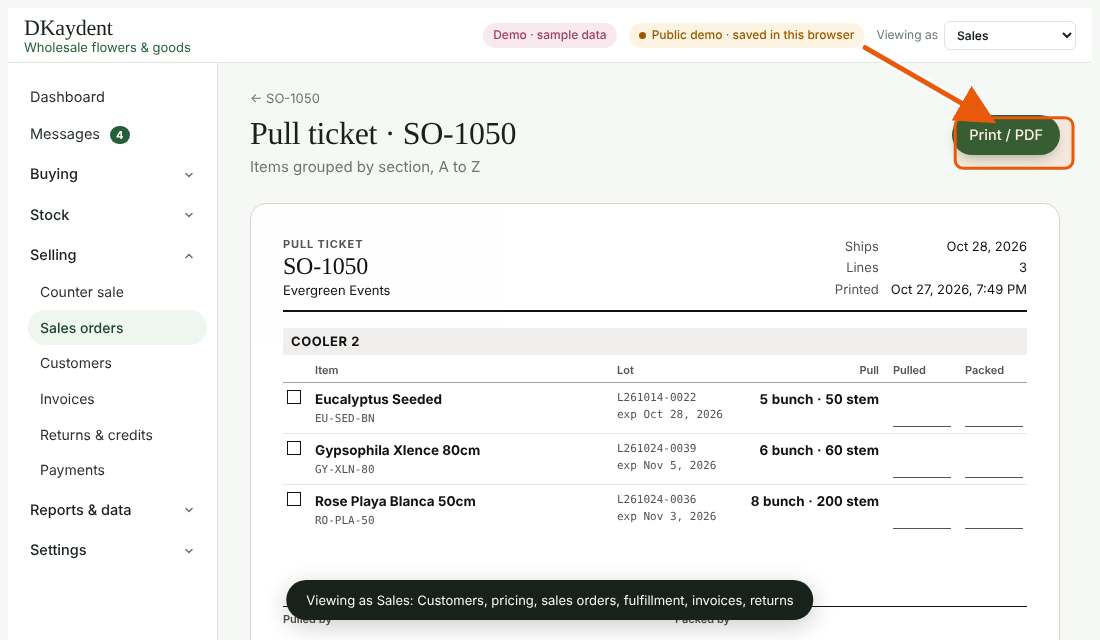
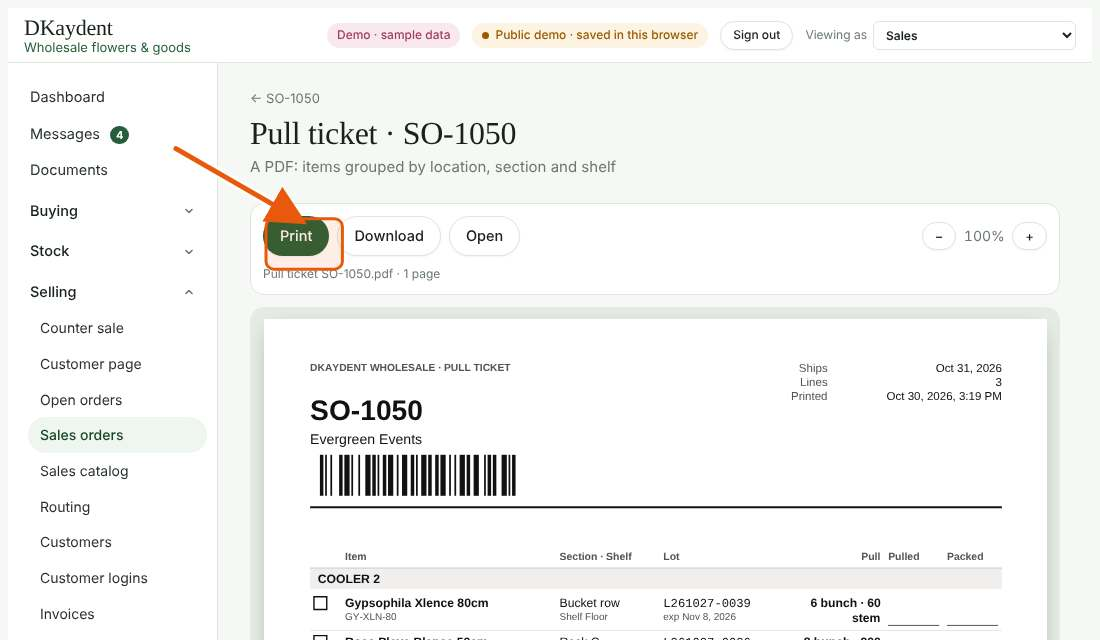
Help: tutorials and knowledge base for the PDF editor, Word editor, signature requests, direct ship and partial receiving
- New tutorials: PDF editor, Word editor, send a PDF for signature, sign a document
- New articles: PDF editor (full reference), Word editor, signature requests, signing, direct ship
- Updated: PDF printouts, customer page, customer logins; Documents category
- Fresh step pictures for pull ticket, receiving, direct ship, counter and labels

Claude-Session: https://claude.ai/code/session_01JojWCRFjxkoW5egjR1n9fu

diff --git a/lib/help.ts b/lib/help.ts
@@ -90,6 +90,23 @@ export const TUTORIALS: Tutorial[] = [
     ],
   },
   {
+    id: "pdf-editor",
+    title: "Change how a printout looks (PDF editor)",
+    summary: "Lay out the pull ticket, invoice, route sheet or labels and save it for everyone.",
+    who: "Admin",
+    steps: [
+      { text: "Open Settings → Customize printouts and scroll to PDF layouts.", href: "/settings/printouts", linkLabel: "Customize printouts" },
+      { text: "Pick the printout at the top: Pull ticket, Invoice, Route sheet, Box label or Item label. The page below shows it with sample data." },
+      { text: "Tap anything on the page to select it. Drag it to move it, and drag its blue corner to resize it. Arrow keys nudge it; hold Shift for bigger steps." },
+      { text: "Change it in the panel on the right: words, text size, colour, bold, italic, typewriter, capitals and alignment. Insert a field puts in a detail like {so.number} that is filled in on every printout." },
+      { text: "Add more with the toolbar: + Field, + Text, + Line, + Box, + Signature, + Logo / picture or + Barcode." },
+      { text: "Tap the list of lines to choose its columns: tick which show, rename the headings, set each width share and order them with the arrows." },
+      { text: "Tap Preview PDF to see the printout as a real PDF with sample data. Undo takes back a change." },
+      { text: "Tap Save layout. Every pull ticket, invoice or label made after that uses it. Back to the original layout starts that printout over." },
+    ],
+    tip: "Use Show only when it has a value for things that are often empty, like the order note or the MUST CHECK box.",
+  },
+  {
     id: "floor-plan",
     title: "Draw your shop in Location in shop",
     summary: "Shape sections to match the real floor, set the size in feet, and mark doors.",
@@ -180,6 +197,52 @@ export const TUTORIALS: Tutorial[] = [
     ],
   },
   {
+    id: "word-editor",
+    title: "Write a document in the Word editor",
+    summary: "Write, format and save documents, and bring Word files in and out.",
+    who: "Everyone on staff",
+    steps: [
+      { text: "Open Documents. The Word editor tab opens first.", href: "/documents", linkLabel: "Documents" },
+      { text: "Tap + New document, or Import .docx to bring in a Word file." },
+      { text: "Click the title at the top to rename the document, then type in the page." },
+      { text: "Format with the toolbar: Normal or Heading 1–3, font, size, bold, italic, underline, colour, link, alignment, bulleted and numbered lists, indent, horizontal line and Clear." },
+      { text: "It saves as you type. The note beside the title says Saved, Unsaved changes or Saving…. Ctrl+S (⌘+S on a Mac) saves straight away." },
+      { text: "Writing diary shows how many words you wrote each day, with each day's text highlighted in its own colour. Start new day starts a fresh count." },
+      { text: "Export .docx downloads the document as a Word file." },
+      { text: "Your documents are listed on the left with their word count. ✕ deletes one. Only you can see your documents." },
+    ],
+  },
+  {
+    id: "request-signature",
+    title: "Send a PDF for signature",
+    summary: "Upload a PDF, mark where to sign and type, and send it to someone by email.",
+    who: "Everyone on staff",
+    steps: [
+      { text: "Open Documents → Send for signing.", href: "/documents?tab=sign", linkLabel: "Send for signing" },
+      { text: "Tap + Add PDF and choose the file (up to 10 MB). It opens in the field editor, with boxes already suggested next to words like Signature, Date and Name." },
+      { text: "Tap + Signature, + Initials, + Checkbox or + Text, then tap the page where the box goes. Drag a box to move it and drag its corner to resize it." },
+      { text: "Tap a box to change its type, give it a label (what goes there), fill it white or show it as a line. Delete box removes it." },
+      { text: "Tap Save, then ✕ to close. The document shows how many fields it has." },
+      { text: "Tap Send to…, type the signer's email and tap Send. It is emailed from your account, or you get a link to copy if email isn't set up." },
+      { text: "Open the Sent tab to follow it: Waiting, then Signed with the time. Download gets the signed PDF; Withdraw stops an unsigned link working." },
+    ],
+    tip: "Send a teammate's DKaydent email and they sign while signed in, from their To sign tab.",
+  },
+  {
+    id: "sign-document",
+    title: "Sign a document you were sent",
+    summary: "Open the link, sign, fill in the boxes and submit.",
+    who: "Anyone who was sent a document",
+    steps: [
+      { text: "Teammates: open Documents → To sign and tap Open and sign. Anyone else: open the link in the email.", href: "/documents?tab=mine", linkLabel: "To sign" },
+      { text: "Not a DKaydent login? Type your full name and the email the link was sent to, then tap Open document." },
+      { text: "At the top, type your full name for your signature, or tap Draw signature. Initials fill in from your name; change them or tap Draw initials." },
+      { text: "Tap each Sign here and Initials box to put your signature in it. Type in the text boxes and tap checkboxes to tick them. Use − and + to zoom." },
+      { text: "Tap Submit. You can't submit until every signature box is filled." },
+      { text: "Tap Download signed PDF to keep a copy. The sender is emailed that it is signed." },
+    ],
+  },
+  {
     id: "users",
     noImages: true,
     title: "Add people and set their role",
@@ -228,6 +291,7 @@ export const ARTICLES: Article[] = [
     "The Sales catalog is the same list for staff. Pick a customer and each item shows what they would pay. Type a price under This customer only to give them a special price, or under the tier price to change it for everyone in that tier. Leave a box empty to go back to the normal price. Add items to the cart and press Create draft order.",
     "Open orders lists every order a customer sent in, with the assigned rep shown on each. The rep also sees a number beside Open orders in the menu. Press Approve to send it to be pulled, Edit to change it first, or Deny and type a reason. The customer sees Denied with your reason. Until you decide, they see Waiting for approval.",
     "On the shop page a customer sees their orders with the items on each. Buy again shows things they have ordered before, and Add these to the cart copies a past order into the cart.",
+    "Each shop has its own login. A login only ever orders for the shop it was made for, so set one up for every shop that orders from you, even when one person looks after several.",
   ], images: ["Create the login here with a username and password. The customer account must already have a route, address, phone and sales rep.", "A second person presses Verify before the customer can shop.", "On the Sales catalog, type a price for this customer only, or change the tier price.", "The customer's shop shows their price and how many are available. Press Add.", "Send order turns the cart into a draft order for sales to approve.", "Open orders shows the assigned rep on each order, with Approve, Edit and Deny."] },
   { id: "cart", category: "Orders", title: "Shopping cart and order summary", body: [
     "Press Add on any item and it goes into the cart. The count on the cart button at the top of the shop goes up.",
@@ -242,15 +306,35 @@ export const ARTICLES: Article[] = [
     "You build your own cart for that customer. It is separate from the customer's own online cart, and each customer has their own cart for you.",
     "If the customer already has items in their online cart, a bar says so. Press Pull in their online cart to add those items to yours. Their own cart is left as it was.",
     "Orders you place from the Customer page are approved right away and go straight to Ready to pull. They do not wait in Open orders.",
+    "Once it is placed, choose what to do next: Go to invoice opens the order page (mark it MUST CHECK, set how it is paid, print box labels and so on), Pull ticket opens its pull ticket PDF, or Keep shopping starts another order for the same customer.",
   ] },
-  { id: "pdf-printouts", category: "Settings", title: "PDF printouts and the layout designer", body: [
-    "Pull tickets, invoices and receipts, route sheets, box labels and item labels are all real PDFs. They open in the PDF viewer, which fits any screen, with Print, Download, Share and Open buttons. On a phone, Print opens the share sheet so you can print, save or send the PDF.",
-    "Labels are made at the label size set under Settings → Printing (or laid out on letter or A4 paper with cut lines). Print them at 100%, with no fit to page.",
-    "Admins lay out each printout under Settings → Customize printouts → PDF layouts. Pick a printout at the top, then drag anything to move it, drag its blue corner to resize, and tap it to change its words, text size, bold, colour and alignment.",
-    "+ Field adds a piece of information, like the order number or the customer. + Text, + Line, + Box, + Signature, + Barcode and + Logo / picture add the rest. Words in {curly brackets} are filled in with each order's details.",
-    "The list of lines is a table: tap it to choose its columns, their headings and widths, and the text size. Things set to Below the lines move down as the list grows, and move to a new page if they don't fit. Long lists carry on to more pages with a header and page numbers.",
-    "Show only when it has a value hides something when it's empty (for example the order note, or the MUST CHECK box when the order isn't marked). Hide it keeps it off the printout. Undo takes back changes, Preview PDF shows the printout with sample data, and Save layout uses it for everyone from then on. Back to the original layout starts that printout over.",
+  { id: "pdf-printouts", category: "Settings", title: "PDF printouts: viewing, printing and sharing", body: [
+    "Pull tickets, invoices and counter receipts, route sheets, box labels and item labels are all real PDFs. They are made fresh each time you open them, so they always show the latest details.",
+    "Where to find them: Print pull ticket on an order, PDF / Print on an invoice, Receipt (PDF) after a counter sale, Route sheet (PDF) on Routing, Print box labels on an order, and Labels for item and lot labels.",
+    "They open in the PDF viewer, which fits the page to your screen on a phone or a computer. − and + zoom in and out. Under the buttons you see the file name and how many pages it has.",
+    "Print sends it to your printer. On a phone, Print opens the share sheet instead, where you can pick a printer, save the file or send it on.",
+    "Download saves the PDF. Share (on phones and some computers) sends it to an app such as Mail or Messages. Open shows it in a new tab with your browser's own PDF viewer.",
+    "Long pull tickets and invoices carry on over more pages, with the header and column headings repeated and page numbers at the bottom. An invoice prints a Customer copy and an Office copy, one after the other.",
+    "Labels are made at the label size set under Settings → Printing, or laid out on letter or A4 paper with dashed cut lines when you use a regular printer. Print them at 100% (actual size), with no fit to page.",
+    "Everything prints in black and white whatever colours the app is using. To change what a printout shows or where things sit, see PDF editor: laying out printouts.",
   ] },
+  { id: "pdf-editor", category: "Settings", title: "PDF editor: laying out printouts", body: [
+    "The PDF editor is where an admin decides how every printout looks. Open Settings → Customize printouts and scroll to PDF layouts. Other roles can't change layouts, but everyone's printouts use the saved one.",
+    "Pick a printout with the tabs at the top: Pull ticket, Invoice, Route sheet (all on letter paper), Box label and Item label (label printer). Each one has its own layout. The hint under the tabs says what the printout is for and, for labels, the size it is laid out at.",
+    "The page in the middle is drawn with sample data, so you can see how a real one will look. Tap anything to select it. Drag it to move it, and drag the blue square on its corner to resize it. Arrow keys nudge the selected item one point at a time; hold Shift to move ten.",
+    "The panel on the right changes the selected item. Text items have the words (with Insert a field…), text size, colour, Bold, Italic, Typewriter (a fixed-width font, good for codes), CAPITALS and alignment (left, centre, right). Lines and boxes have line thickness and fill. Left, Top, Width and Height set the exact position in points (72 points to an inch).",
+    "Fields are details filled in for each printout. They are written in curly brackets, for example {so.number} for the order number or {inv.due} for the due date. You can mix them with your own words, such as Order {so.number} for {so.customer}. + Field… adds a field on its own; Insert a field… adds one where you are typing. Each printout has its own list: the pull ticket has the customer, ship date, line count, order note and box labels printed; the invoice has bill to, deliver to, terms, resale certificate and every total; the route sheet has the day, route code, driver and stops; labels have the item, SKU, code, customer, address, box number and route.",
+    "The toolbar adds things: + Text (your own words), + Line, + Box, + Signature (a signature line with a name under it), + Logo / picture (a PNG or JPG; adding a second logo replaces the first), and + Barcode (it starts with the order or invoice number; any field or text can become a barcode). Remove deletes the selected item.",
+    "The list of lines (the items on a pull ticket or invoice, the stops on a route sheet) is a table. Tap it to choose its columns. Tick which columns show, rename a heading by typing over it, set the width share (each column gets its share of the table's width) and move a column earlier or later with the arrows. Text size in the list sets the size of every row.",
+    "Below the lines: set Place to Below the lines for anything that should follow the list, like the totals, signature lines or the MUST CHECK box. It moves down as the list gets longer, and goes onto a new page if it doesn't fit. On the page keeps it in a fixed spot. A dashed guide on the page shows where the list ends in the sample.",
+    "Pages: First page, Every page, or After the first. Page numbers ({page} of {pages}) and repeated headers usually go on every page; a shorter header can go on later pages only. Items that only print after the first page look faint on the canvas.",
+    "Show only when it has a value: pick a field and the item only prints when that field isn't empty, for example the order note, the resale certificate, or the delivery address on an invoice. On the pull ticket, The order is marked MUST CHECK shows the MUST CHECK box only on orders that have it.",
+    "Hide it keeps something off the printout without deleting it, and Show it brings it back. The On this printout list under the panel names everything on the page (if set means it has a show-when rule) with a Shown / Hidden switch, which is the easiest way to find small or faint items.",
+    "Labels: the layout is drawn at a set size and scaled to the label size you print, so one layout works for any label printer. If your label size is different, Lay out at my label size redraws the canvas at your size so you can arrange it exactly.",
+    "Undo (or Ctrl+Z) takes back your last changes, up to 50 of them. Preview PDF makes the real PDF with sample data and opens it in the viewer, so you can check pages, fonts and spacing before anyone prints. Unsaved changes are marked beside the tabs.",
+    "Save layout stores it for everyone; every printout made from then on uses it. Back to the original layout throws away your layout for that printout and goes back to the one the app came with. Saved layouts are checked when saved, so a broken one can't be stored.",
+    "Company details (business name, address, phone and footer) and the invoice wording (terms, note and the names of the two copies) are at the top of the same page and fill in the business and invoice fields on every printout.",
+  ], images: ["Pick a printout, then tap anything on the page to change it in the panel on the right.", "The toolbar adds fields, text, lines, boxes, signatures, a logo or a barcode.", "Tap the list of lines to choose its columns, headings and widths.", "Show only when it has a value, Place and Pages for the selected item.", "Preview PDF shows the printout as a real PDF with sample data."] },
   { id: "returned-labels-routes", category: "Orders", title: "Sending an order back, box labels and route sheets", body: [
     "Pulled orders get checked before they are invoiced. If something is wrong, Delivery/Order Management types what sales needs to fix in the box on the order and presses Send back to sales. The order moves to Sent back to sales and shows the note.",
     "Sales then changes the quantity on each line to what was really pulled. A quantity can only go down. The difference goes back on the shelf, into the same lots it came from, and the cost updates. Set a line to 0 to take it off. Press Save and send to Delivery/Order Management and it returns to Pulled for the check. If sales cannot fix it, use Returns & credits instead.",
@@ -351,15 +435,63 @@ export const ARTICLES: Article[] = [
     "An item's usual spot: on the item's page, under its home area, set Usual section and shelf.",
     "Pull tickets show Section · Shelf for each line: the stock's own spot, else the item's usual spot when the stock is in its home location. Lines are sorted by section, then shelf.",
   ] },
-  { id: "documents", category: "Settings", title: "Documents: Word editor and signing", body: [
-    "Documents (in the menu) has three tabs: Word editor, Send for signing, and To sign. Every staff role can use them; customers only sign what they're sent.",
-    "Word editor: write with headings, fonts, sizes, colours, lists and links. It saves as you type. Import .docx brings in a Word file and Export .docx gives one back. Your documents are private: nobody else can see them.",
-    "Writing diary: text is tagged with the day you wrote it. Start new day begins a fresh count; edits to older text keep their original day, but the word change counts for today.",
-    "Send for signing: + Add PDF, then Mark fields to place Signature, Initials, Text and Checkbox boxes on the pages (common ones like Signature: and Date: are suggested for you). Send to… emails a signing link from your account; replies come to your account email.",
-    "Who can sign: if the email belongs to a DKaydent login, that person signs while signed in to that account (it appears under their To sign). Anyone else types the email the link was sent to before it opens.",
-    "Signing: type or draw a signature and initials, tap each box to fill it, fill text boxes, then Submit. The signed PDF gets a certificate page (who, how they were checked, sender, IP, device and time). The sender is emailed when it's signed, and Sent shows it with a Download button.",
-    "Email uses the same Resend setup as password resets (RESEND_API_KEY). Without it, Send to… shows the link to copy and send yourself.",
+  { id: "direct-ship-faq", category: "Stock", title: "Direct ship and receiving part of an order", body: [
+    "A direct-ship purchase order is bought for one customer. Set Direct ship for on a standing order (every delivery it plans follows it, apart from ones you have edited) or on a single purchase order when you create it or in its Details. Choose Not direct ship to turn it off.",
+    "Direct-ship orders have a purple Direct ship → customer badge on Purchasing, Receiving, the shipment and the standing order.",
+    "Receiving one gives two buttons. Receive to [customer]'s order receives the stock as usual (lot, landed cost, location, section and shelf) and makes a new Ready to pull order for that customer at their usual prices, with only what came in. Receive into our stock instead receives it like any other purchase order.",
+    "Stock received to a customer's order is held for that order. Other orders, pull tickets and hand-picking skip it, and its own order takes it first. The hold ends when the order is marked pulled or cancelled. Available stock in the shop already leaves it out.",
+    "Every receipt makes its own order, so if part comes now and the rest later, the customer gets two orders. The purchase order lists the orders it made, and each order's note says which purchase order it came from.",
+    "On a shipment, each direct-ship purchase order has a ticked Direct ship box. Untick it to receive that one into stock instead.",
+    "All, Some or None: every line being received starts at All (everything still due). Choose Some and type how many came, or None if it didn't come. The line under the table sums it up. Lines set to None are greyed out.",
+    "Whatever didn't come stays due on the purchase order, which shows Partially received. Receive the rest when it arrives, or Close short when nothing more is coming.",
+    "A shipment that came in short stays open as Arrived (partly received), with only the missing lines left to receive. It finishes by itself once those are received, moved to another shipment or closed short.",
   ] },
+  { id: "documents", category: "Documents", title: "Documents: what's there and who can use it", body: [
+    "Documents is in the main menu for every staff role. It has three tabs: Word editor for writing, Send for signing for getting PDFs signed, and To sign for anything sent to you.",
+    "Word editor documents are private: only the person who wrote one can open it. See Word editor: writing and formatting documents.",
+    "Send for signing lets anyone on staff upload a PDF, mark where people sign or type, and email it for signature. The PDFs and the list of sent requests are shared by the whole team, so anyone can prepare, send or follow up, and each request shows who sent it. See Signature requests: preparing and sending a PDF.",
+    "To sign lists documents sent to your account email, with Open and sign on the ones still waiting. Customers and people outside the business sign from the emailed link instead. See Signing a document.",
+  ] },
+  { id: "word-editor", category: "Documents", title: "Word editor: writing and formatting documents", body: [
+    "Open Documents → Word editor. Your documents are listed on the left, newest first, with their word count and when they were last changed. Tap one to open it. « hides the list to give the page more room and ☰ brings it back; on a phone the list hides itself once you open a document.",
+    "+ New document starts a blank page called Untitled document. Click the title at the top of the page to rename it. ✕ beside a document in the list deletes it after asking; this can't be undone.",
+    "Import .docx brings in a Word file. Headings, bold, italic, underline, lists, links and most text formatting come across; things the editor doesn't have, such as tables, comments and tracked changes, are left out. The new document is named after the file.",
+    "Export .docx downloads the open document as a Word file, ready to open in Microsoft Word, Google Docs or Pages, or to attach to an email.",
+    "Paragraph style: Normal, Heading 1, Heading 2, Heading 3 or Quote. Font: Default, Calibri, Arial, Georgia, Times New Roman, Garamond, Verdana or Courier New. Size: 9 to 48 point. Fonts and sizes that came in from a Word file stay in the list for that text.",
+    "Bold, Italic, Underline and Strikethrough work on selected text, or on what you type next. Keyboard shortcuts: Ctrl+B, Ctrl+I, Ctrl+U, Ctrl+Z to undo and Ctrl+Y to redo (⌘ instead of Ctrl on a Mac). A tells you the text colour and opens a colour picker.",
+    "Link: select some words, tap 🔗 and type the web address. To take a link off, tap 🔗 again and clear the address. Web addresses you type become links by themselves.",
+    "Alignment: left, centre, right or justified, for the paragraph you are in. Lists: bulleted or numbered; Increase indent and Decrease indent move a list item in or out a level. Horizontal line adds a divider. Clear removes formatting from the selected text (styles, fonts, colours, links, alignment) and turns headings back into normal paragraphs.",
+    "Saving is automatic, about a second after you stop typing. The note beside the title says Saved, Unsaved changes, Saving… or, if the connection drops, Couldn't save — retrying when you type. Ctrl+S (⌘+S) saves straight away. If you try to close the page with unsaved changes, the browser asks first.",
+    "Open in two windows: if the same document is saved from another window or device, this copy stops saving so it can't overwrite that work, and a bar says Changed in another window. Tap Reload to get the newest version.",
+    "The bar at the bottom shows the words and characters in the document and how many words you have added today.",
+    "Writing diary (the button beside Export .docx) keeps a log of your writing. Each entry is a day you wrote, with when you started and stopped and the net number of words added or taken away that day, including edits to older parts of the document. An imported Word file gets its own Imported entry.",
+    "Highlight sections colours the text by the day it was written, matching each entry's colour swatch. Tap an entry to jump to its text. Text you edit later keeps the colour of the day it was first written. Start new day closes the current count and starts a new one, for example when a new writing session begins on the same day.",
+    "The diary and the highlights are only on screen. They are never printed or exported, and Clear never removes them. The diary and highlight choices are remembered on that device.",
+    "Privacy: documents are stored with your account and nobody else can open them, admins included. To share a document, use Export .docx and send the file.",
+  ], images: ["The toolbar: style, font, size, bold, italic, underline, colour, link, alignment, lists and Clear.", "The writing diary lists each day's words; Highlight sections colours the text by day.", "+ New document, Import .docx and the list of your documents."] },
+  { id: "signature-requests", category: "Documents", title: "Signature requests: preparing and sending a PDF", body: [
+    "Open Documents → Send for signing. The Documents tab lists the PDFs your team has added, with how many fields and pages each has. The Sent tab lists every request sent, who sent it and whether it has been signed. Both lists are shared by everyone on staff.",
+    "+ Add PDF uploads a PDF of up to 10 MB and opens it in the field editor. A fillable PDF has its own form fields turned into boxes. Otherwise boxes are suggested next to words such as Signature, Sign here, Initial, Printed name, Date and Title. Check the suggestions and delete any you don't want.",
+    "Adding a field: tap + Signature, + Initials, + Checkbox or + Text, then tap the page where it goes. The note under the toolbar reminds you what you are placing. Signature boxes are blue, initials purple, checkboxes gold and text boxes green.",
+    "Moving and sizing: drag a box to move it, and drag the white square on its corner to resize it. − and + zoom the pages so small boxes are easier to place. Tap the page away from any box to deselect.",
+    "Changing a box: tap it to open its settings at the bottom. Type switches between Signature (they sign or stamp their name), Initials, Checkbox and Text field (they type). Label is what the box is for, such as Date or Printed name; the signer sees it as a hint. Fill (white) covers whatever is printed under the box. Underline shows it as a line instead of a box. Delete box removes it.",
+    "Tap Save when the fields are right, then ✕ to close. You can come back with Mark fields at any time. Send to… stays greyed out until the document has at least one field.",
+    "Sending: tap Send to…, type the signer's email and tap Send. One request goes to one person; to have two people sign, send it twice. The email comes from your account (your name and email are shown to the signer), so replies come back to you.",
+    "Who signs, and how they are checked: if the email belongs to a DKaydent login, that person must be signed in to that account to open it, and it appears in their To sign tab. Anyone else must type the exact email it was sent to before the document opens.",
+    "Email: requests and Signed notices are sent through the same email setup as password resets (RESEND_API_KEY). Without it, sending still makes the request and shows the signing link with Copy link, so you can send it yourself by text or your own email.",
+    "Following up: the Sent tab shows Waiting with the time it was sent, or Signed with the time it was signed. The person who sent it gets an email when it is signed, and the tab shows Sent (1 new) until someone downloads the signed copy. Download gets the signed PDF. Withdraw cancels an unsigned request so the link stops working. Remove deletes a signed copy from the list.",
+    "The signed PDF has everything the signer filled in drawn onto the pages, plus a certificate page at the end: the document, who signed and how they were checked (signed in to their account, or confirmed by email), who sent it, the signer's IP address and device, the time in UTC and a request ID.",
+    "Deleting a document removes it and its field layout from the Documents list. Requests already sent keep working, and signed copies stay in the Sent tab.",
+  ], images: ["Place Signature, Initials, Checkbox and Text boxes on the page.", "Tap a box to change its type, label, fill or underline.", "Send to… emails the request; without email set up you get a link to copy.", "The Sent tab shows who has signed, with Download for the signed PDF."] },
+  { id: "signing-documents", category: "Documents", title: "Signing a document", body: [
+    "From a teammate: open Documents → To sign. Documents sent to your account email are listed with who sent them and when. Tap Open and sign. Because you are signed in, there is no extra check.",
+    "From an emailed link: open the link. If it was sent to a DKaydent login, you are asked to sign in with that account first. Otherwise, type your full name and the email address it was sent to and tap Open document. A different email address is refused.",
+    "Your signature: type your full name at the top and it is used as a handwritten-style signature. To draw it instead, tap Draw signature, sign with a finger or mouse, and tap Use this (Clear starts again). Initials are filled in from your name; type over them or tap Draw initials.",
+    "Filling it in: tap each Sign here box to put your signature in it, and each Initials box for your initials. Type in the text boxes (the grey hint says what goes there). Tap a checkbox to tick it, and again to untick it. − and + zoom the pages.",
+    "Tap Submit when you are done. Every signature and initials box has to be filled first. After submitting you see All done, and Download signed PDF saves your copy. The sender is emailed that it was signed.",
+    "Opening the link again after it is signed shows This document has already been completed, with the download button. A link the sender has withdrawn no longer opens.",
+    "The signed copy ends with a certificate page that records your name, how you were checked, your IP address and device, and the time, so the signature can be checked later.",
+  ], images: ["Type or draw your signature and initials at the top, then tap each box.", "Submit, then download your signed copy."] },
   { id: "labels-faq", category: "Stock", title: "Label printing", body: [
     "Choose Label printer for a roll or thermal printer, or Regular printer for plain paper, in Settings → Printing.",
     "That choice is saved on the computer you are using, so each workstation can use its own printer.",
@@ -440,4 +572,4 @@ export const ARTICLES: Article[] = [
   ] },
 ];
 
-export const KB_CATEGORIES = ["Orders", "Stock", "Money", "Web store", "Messages", "Settings"];
+export const KB_CATEGORIES = ["Orders", "Stock", "Money", "Web store", "Messages", "Documents", "Settings"];
